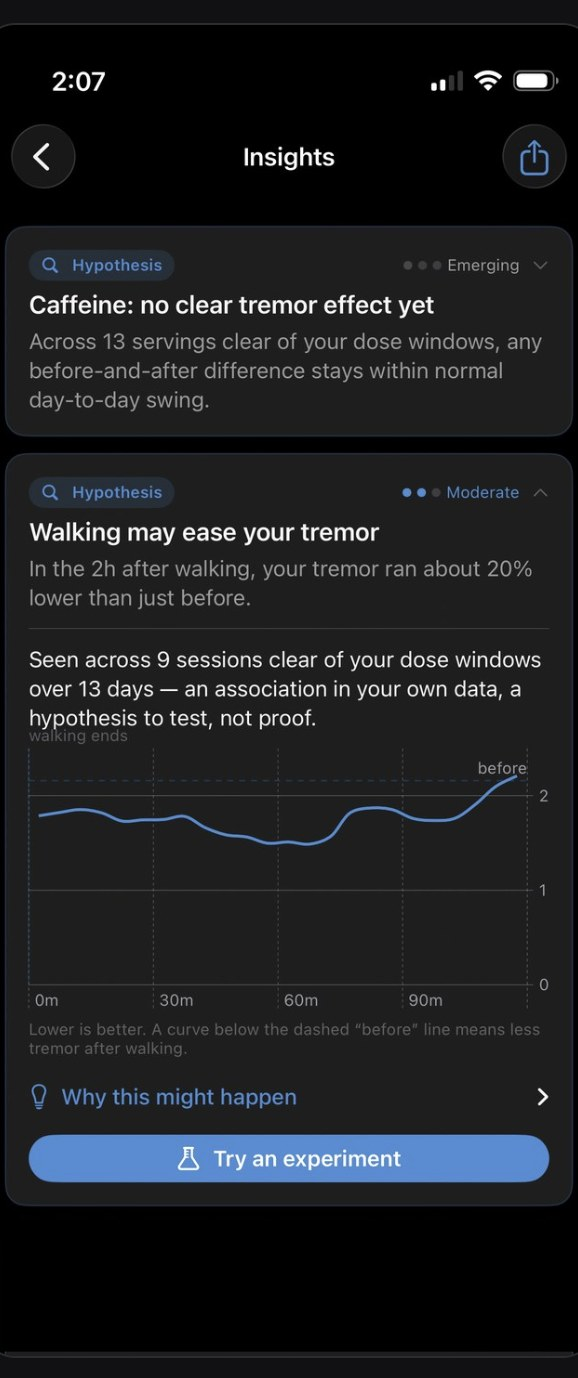
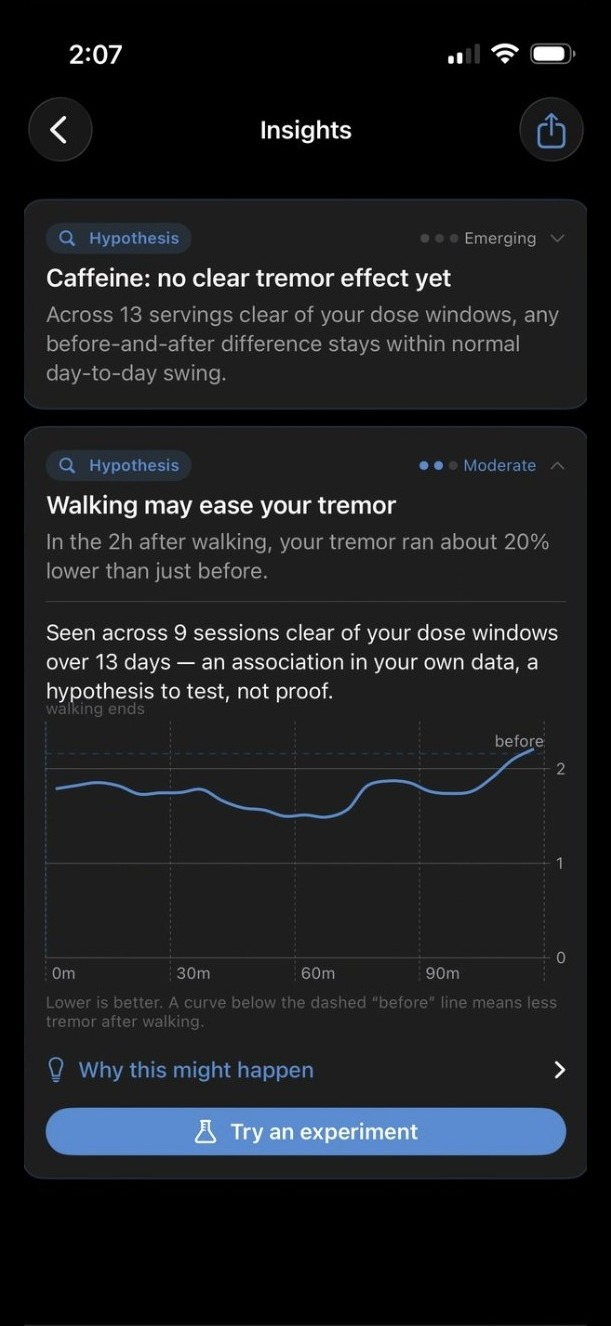
Add FAQ page, CGM showcase, and Insights screenshot polish to site
- New /faq.html (Kampa FAQ, SHIP-GATED entries stripped, no pricing);
  linked from index/privacy/terms footers
- CGM 'Glucose, on the same timeline' showcase section with real-capture
  video (crosshair scrub + panel collapse); 'Jul 2026' changelog entry
- Roadmap: swap shipped CGM item for 'Per-medication response'
- Insights screenshots: wrap in phone bezel, reframe out baked-in frame,
  enlarge, add side gutter (aspect + framing now match the rest of the page)

diff --git a/website/faq.html b/website/faq.html
@@ -1,0 +1,272 @@
+<!DOCTYPE html>
+<html lang="en">
+<head>
+    <meta charset="UTF-8">
+    <meta name="viewport" content="width=device-width, initial-scale=1.0">
+    <title>FAQ — Kampa</title>
+    <meta name="description" content="Answers to common questions about Kampa - setup, the tremor chart, Insights, privacy, glucose, pricing, and how the app works. Not medical advice.">
+    <link rel="preconnect" href="https://fonts.googleapis.com">
+    <link rel="preconnect" href="https://fonts.gstatic.com" crossorigin>
+    <link href="https://fonts.googleapis.com/css2?family=Geist:wght@400;500;600&family=Inter:ital,opsz,wght@0,14..32,300;0,14..32,400;0,14..32,500;0,14..32,600;1,14..32,400&display=swap" rel="stylesheet">
+    <style>
+        *, *::before, *::after { box-sizing: border-box; margin: 0; padding: 0; }
+        :root {
+            --bg: #0a0a0a;
+            --surface-1: #111113;
+            --surface-2: #1c1c1e;
+            --border: #2c2c2e;
+            --blue: #4A8CD6;
+            --blue-dim: rgba(74, 140, 214, 0.12);
+            --blue-border: rgba(74, 140, 214, 0.30);
+            --text-1: #ffffff;
+            --text-2: rgba(235, 235, 245, 0.76);
+            --text-3: rgba(235, 235, 245, 0.36);
+            --font: 'Inter', -apple-system, BlinkMacSystemFont, sans-serif;
+            --font-geist: 'Geist', 'Inter', sans-serif;
+            --max-w: 760px;
+        }
+        html { scroll-behavior: smooth; }
+        body {
+            background: var(--bg);
+            color: var(--text-1);
+            font-family: var(--font);
+            -webkit-font-smoothing: antialiased;
+            line-height: 1.7;
+            font-weight: 300;
+        }
+        nav {
+            position: sticky;
+            top: 0;
+            z-index: 100;
+            display: flex;
+            align-items: center;
+            justify-content: space-between;
+            padding: 16px 32px;
+            background: rgba(10, 10, 10, 0.72);
+            backdrop-filter: blur(24px);
+            -webkit-backdrop-filter: blur(24px);
+            border-bottom: 1px solid rgba(255,255,255,0.05);
+        }
+        .wordmark { display: flex; align-items: center; gap: 9px; text-decoration: none; }
+        .wordmark .name {
+            font-family: var(--font-geist); font-weight: 500; font-size: 18px;
+            letter-spacing: -0.02em; color: #fff;
+        }
+        .wordmark .name .a-blue { color: var(--blue); }
+        .nav-back { color: var(--text-2); text-decoration: none; font-size: 14px; transition: color 0.18s; }
+        .nav-back:hover { color: var(--text-1); }
+        .container { max-width: var(--max-w); margin: 0 auto; padding: 72px 32px 96px; }
+        .eyebrow {
+            font-size: 11.5px; font-weight: 650; letter-spacing: 0.11em;
+            text-transform: uppercase; color: var(--blue); margin-bottom: 14px;
+        }
+        h1 {
+            font-size: clamp(30px, 4vw, 42px); font-weight: 700;
+            letter-spacing: -0.03em; line-height: 1.1; margin-bottom: 12px;
+        }
+        .meta { font-size: 13.5px; color: var(--text-3); margin-bottom: 40px; }
+        .intro {
+            background: var(--surface-1); border: 1px solid var(--border);
+            border-radius: 14px; padding: 24px 26px; margin-bottom: 36px;
+            font-size: 16px; color: var(--text-2); line-height: 1.75;
+        }
+        .toc {
+            display: flex; flex-wrap: wrap; gap: 8px; margin-bottom: 48px;
+        }
+        .toc a {
+            font-size: 13px; color: var(--text-2); text-decoration: none;
+            background: var(--surface-2); border: 1px solid var(--border);
+            border-radius: 999px; padding: 7px 14px; transition: border-color 0.18s, color 0.18s;
+        }
+        .toc a:hover { border-color: var(--blue); color: var(--text-1); }
+        section { scroll-margin-top: 80px; }
+        h2 {
+            font-size: 20px; font-weight: 600; letter-spacing: -0.02em;
+            color: var(--text-1); margin: 48px 0 8px;
+            padding-bottom: 12px; border-bottom: 1px solid var(--border);
+        }
+        h3 { font-size: 15.5px; font-weight: 600; color: var(--text-1); margin: 28px 0 8px; }
+        p { color: var(--text-2); margin-bottom: 14px; font-size: 15.5px; }
+        strong { font-weight: 500; color: var(--text-1); }
+        a { color: var(--blue); text-decoration: none; border-bottom: 1px solid transparent; transition: border-color 0.2s; }
+        a:hover { border-bottom-color: var(--blue); }
+        .callout {
+            background: var(--blue-dim); border: 1px solid var(--blue-border);
+            border-radius: 10px; padding: 16px 20px; margin: 22px 0;
+        }
+        .callout p { margin: 0; color: var(--text-1); font-weight: 400; font-size: 15px; }
+        .contact {
+            margin-top: 56px; padding: 24px 26px; background: var(--surface-1);
+            border: 1px solid var(--border); border-radius: 14px;
+        }
+        .contact h2 { border: none; margin: 0 0 8px; padding: 0; }
+        .contact p { margin: 0; }
+        footer {
+            border-top: 1px solid var(--border); padding: 32px;
+            text-align: center; font-size: 12.5px; color: var(--text-3);
+        }
+        footer a { color: var(--text-2); }
+    </style>
+</head>
+<body>
+
+<nav>
+    <a href="index.html" class="wordmark" aria-label="Kampa home">
+        <svg width="38" height="23" viewBox="0 0 240 144" fill="none" xmlns="http://www.w3.org/2000/svg" style="color:#fff; flex-shrink:0;">
+            <path d="M8 90 C 28 90, 30 30, 56 30 C 78 30, 80 110, 104 95 C 124 82, 126 60, 150 60 C 168 60, 172 78, 192 78 L 232 78" stroke="currentColor" stroke-width="8" stroke-linecap="round" stroke-linejoin="round"/>
+            <circle cx="232" cy="78" r="5" fill="currentColor"/>
+        </svg>
+        <span class="name">k<span class="a-blue">ā</span>mpa</span>
+    </a>
+    <a href="index.html" class="nav-back">← Back to site</a>
+</nav>
+
+<div class="container">
+
+    <p class="eyebrow">Help</p>
+    <h1>Frequently asked questions</h1>
+    <p class="meta">How Kampa works - setup, your data, privacy, and more. Not medical advice.</p>
+
+    <div class="intro">
+        Answers to the questions people ask most about Kampa. If you don't find what you need here, email <a href="mailto:[email redacted]">[email redacted]</a> - it reaches the person who builds the app. For anything medical, talk to your doctor or neurologist.
+    </div>
+
+    <nav class="toc" aria-label="Sections">
+        <a href="#getting-started">Getting started</a>
+        <a href="#your-data">Understanding your data</a>
+        <a href="#privacy">Privacy</a>
+        <a href="#logging">Logging &amp; voice</a>
+        <a href="#glucose">Glucose (CGM)</a>
+        <a href="#cost">Cost</a>
+        <a href="#about">About Kampa</a>
+    </nav>
+
+    <section id="getting-started">
+        <h2>Getting started</h2>
+
+        <h3>What do I need to run Kampa?</h3>
+        <p>An iPhone 11 or newer running iOS 26 or later, and an Apple Watch Series 4 or newer running watchOS 10 or later. The Watch is essential - it is where tremor and dyskinesia are sensed. Kampa works with older Watches like the Series 5 and first-generation SE.</p>
+
+        <h3>I installed Kampa and it says "no data yet." Is something wrong?</h3>
+        <p>No - this is expected. Tremor sensing needs a few days of regular Watch wear before patterns appear. Wear your Watch through your normal days, and Kampa will start showing data as it accumulates. If you see nothing after 3-4 days of wear, check that Kampa has Motion and Health permissions in Settings.</p>
+
+        <h3>Do I need to open the app every day?</h3>
+        <p>No, but open it every few days. Your Watch stores about a week of tremor data and hands it to your iPhone when the app opens. If the app stays closed longer than that, the oldest days can be lost. Kampa will remind you if it has not heard from your Watch in a while - that reminder is the one notification we will always send, because your data matters. We are working toward fully automatic background sync.</p>
+
+        <h3>Which permissions does Kampa ask for, and why?</h3>
+        <p>Health access (to read sleep, exercise, heart data, medications, and to save what you log), Motion access on the Watch (tremor and dyskinesia sensing), and optionally notifications (used only for the handful of things worth interrupting you for - like the Watch losing sync). Kampa asks for nothing it does not use.</p>
+
+        <h3>How do I log my medications?</h3>
+        <p>In the Apple Health app, which is the system of record for medications on iPhone. Log a dose there (or via Siri with Apple's own medication features) and Kampa reads it automatically and places it on your timeline. Kampa deliberately does not keep a separate medication list - one list, no double entry.</p>
+    </section>
+
+    <section id="your-data">
+        <h2>Understanding your data</h2>
+
+        <h3>What does the 0-4 tremor scale mean?</h3>
+        <p>It is a None-to-Strong severity estimate produced automatically from your Apple Watch. The labels echo the severity language clinicians use, but the number is a passive estimate from wrist sensing - not a doctor's exam, and not a clinical score. Use it to compare your own days against each other, not to compare yourself against anyone else.</p>
+
+        <h3>Why does my tremor number look different from another app I use?</h3>
+        <p>Different apps measure different things. Kampa's chart shows tremor intensity - how strong the tremor was, hour by hour. Some other apps report duration - how many minutes of tremor occurred. Both are legitimate lenses; a day can have long mild tremor or brief strong tremor. Neither number is wrong; they answer different questions.</p>
+
+        <h3>What is dyskinesia, and why does mine show zero?</h3>
+        <p>Dyskinesia refers to involuntary movements that can occur as a side effect of levodopa medication, usually at peak dose. Not everyone experiences it - if you don't, a flat line is the correct reading, not a broken feature. Wrist sensing can also register some ordinary movement as possible dyskinesia, so Kampa is deliberately conservative about what it shows.</p>
+
+        <h3>Why do tremor and dyskinesia sometimes look like opposites on the chart?</h3>
+        <p>Because pharmacologically they often are. Tremor tends to peak before a dose (medication worn off) and dyskinesia at peak dose. Seeing them rise and fall in opposite rhythm around your doses is the levodopa cycle made visible - many people find this one chart explains their day better than anything else.</p>
+
+        <h3>What is the difference between Observations and Insights?</h3>
+        <p>Observations describe today: "Tremor eased 68% in the hour after your 8 AM dose." They are honest descriptions of what co-occurred, not proof of cause. Insights are patterns that hold up across many days and pass statistical checks before you ever see them. Observations are the daily read; Insights are the accumulated evidence.</p>
+
+        <h3>What do the confidence labels on Insights mean?</h3>
+        <p>Emerging, moderate, and strong reflect how much evidence supports a pattern - how many days, how large the effect, and how consistently it repeats. Kampa shows the basis plainly ("based on 23 days"). If a pattern stops holding, its card is downgraded or retired. We would rather show you nothing than something that is not real.</p>
+
+        <h3>Why do I have so few Insights? / Why did a card disappear?</h3>
+        <p>Because Kampa applies real statistical standards before claiming anything, and honest standards mean fewer, better cards. Some things genuinely have no effect on your symptoms - learning that is valuable too. Cards appear when evidence clears the bar and retire when it no longer does; the screen reflects the current state of evidence, never a highlight reel.</p>
+
+        <h3>Will Kampa ever tell me to change my medication?</h3>
+        <p>No. Never. Kampa may surface an observation worth discussing - for example, that your afternoon doses seem to act more slowly than your morning ones - and help you prepare a summary for your neurologist. What to do about it is a decision for you and your doctor.</p>
+    </section>
+
+    <section id="privacy">
+        <h2>Privacy and your data</h2>
+
+        <h3>Where does my health data live?</h3>
+        <p>On your iPhone and in your own private iCloud. Kampa has no servers. We cannot see your data - not because of a policy, but because of how the app is built. Nothing is sold, shared, or used for research without your explicit consent.</p>
+
+        <h3>Does Kampa use my data to train AI?</h3>
+        <p>No. Optional AI-powered features (like plain-language explanations) send only derived summary statistics - never your raw health data, never your identity - and only if you opt in. Everything else runs entirely on your device.</p>
+
+        <h3>Can I get my data out?</h3>
+        <p>Yes, always. Kampa exports your data as CSV files you can keep, inspect, or share. It is your data; export is free and always will be.</p>
+
+        <h3>What happens to my data if I stop using Kampa?</h3>
+        <p>It stays in your iCloud and your Apple Health store, under your control. Deleting the app removes Kampa's copies; your Health data remains yours in Apple Health.</p>
+
+        <div class="callout">
+            <p>For the complete details, see the <a href="privacy.html">full privacy policy</a>.</p>
+        </div>
+    </section>
+
+    <section id="logging">
+        <h2>Logging and voice</h2>
+
+        <h3>How does voice logging work?</h3>
+        <p>Say something like "Hey Siri, log coffee with Kampa" or "log a 20 minute meditation." Kampa reads back what it understood and asks you to confirm before saving anything. It was designed for days when typing is hard.</p>
+
+        <h3>Why can't I log a medication dose by voice through Kampa?</h3>
+        <p>Apple allows apps to read medication doses from Apple Health but not to write them. Saying "log my meds" opens Apple Health's own medication screen instead. This is an Apple platform rule, and it exists for a good reason - one trusted list of record for something as important as medication.</p>
+    </section>
+
+    <section id="glucose">
+        <h2>Glucose (CGM)</h2>
+
+        <h3>Kampa shows a glucose panel. Do I need a glucose monitor?</h3>
+        <p>No. Kampa works fully without one. If you choose to wear an over-the-counter continuous glucose sensor (such as Abbott Lingo or Dexcom Stelo - no prescription needed), Kampa can display your glucose curve time-aligned under your tremor chart, with doses and meals marked across both.</p>
+
+        <h3>Why would glucose matter for tremor or medication?</h3>
+        <p>Levodopa is absorbed and reaches the brain through transport systems that food - especially protein and large meals - can compete with. Your glucose curve is an objective record of your body's meal response, which can help make sense of days when a dose seemed slow or weak. Kampa treats this as an area to observe honestly, not a promise.</p>
+
+        <h3>How do I connect my sensor?</h3>
+        <p>Enable Apple Health sharing inside your sensor's own app (for example Lingo). Kampa reads glucose from Apple Health automatically - no separate pairing.</p>
+    </section>
+
+    <section id="cost">
+        <h2>Cost</h2>
+
+        <h3>What does Kampa cost?</h3>
+        <p>Nothing right now - Kampa is free to use. Sensing, charts, daily observations, logging, and data export are all included.</p>
+    </section>
+
+    <section id="about">
+        <h2>About Kampa</h2>
+
+        <h3>Who makes Kampa?</h3>
+        <p>Kampa is built by Bhav Bhasin, a product builder who has spent 25+ years on large-scale technology and now builds independently, working closely with the Parkinson's community. Kampa began as an attempt to answer questions that existing tools would not: not "what happened," but "what actually affects me?"</p>
+
+        <h3>What does "Kampa" mean?</h3>
+        <p>Kampa (कम्प) is Sanskrit for "tremor," from Kampavata - the term ancient Ayurvedic medicine used for what modern medicine calls Parkinson's disease. We chose a name that faces the condition honestly.</p>
+
+        <h3>I have essential tremor, not Parkinson's. Will Kampa work for me?</h3>
+        <p>Parts of it. Kampa's lifestyle logging and correlation tools apply broadly, but the Watch's tremor sensing is tuned by Apple for Parkinson's resting tremor, and some features (like dose-response analysis) are specific to Parkinson's medication. We have not yet validated Kampa for essential tremor, and we won't claim it works until we have.</p>
+
+        <h3>Is Kampa a medical device?</h3>
+        <p>No. Kampa is a personal wellness and symptom-tracking tool. It is not a medical device and does not provide medical advice, diagnosis, or treatment. Always consult a qualified healthcare professional about any medical condition.</p>
+
+        <h3>I found a bug / I have an idea. Where do I send it?</h3>
+        <p><a href="mailto:[email redacted]">[email redacted]</a> - it lands with the person who builds the app, usually within a day or two. Ideas from people living with the condition have shaped most of what Kampa is.</p>
+    </section>
+
+    <div class="contact">
+        <h2>Still have a question?</h2>
+        <p>Email <a href="mailto:[email redacted]">[email redacted]</a> - it reaches the person who builds Kampa, usually within a day or two.</p>
+    </div>
+
+</div>
+
+<footer>
+    © 2026 Kampa Health · <a href="index.html">kampa.health</a> · <a href="privacy.html">Privacy Policy</a> · <a href="terms.html">Terms of Use</a>
+</footer>
+
+</body>
+</html>

diff --git a/website/index.html b/website/index.html
@@ -485,6 +485,7 @@
             align-items: start;
         }
         .insight-shot { display: flex; flex-direction: column; align-items: center; gap: 18px; }
+        .insight-shot .phone { width: 100%; max-width: 320px; }
         .insight-shot img { width: 100%; display: block; }
         .insight-cap { text-align: center; }
         .insight-cap strong { display: block; font-size: 14px; font-weight: 600; color: var(--text-1); margin-bottom: 3px; }
@@ -562,6 +563,24 @@
         .legend-item span { font-size: 17px; }
         .legend-item strong { display: block; font-size: 12.5px; font-weight: 600; }
         .legend-item p { font-size: 11.5px; color: var(--text-3); }
+
+        /* ── Glucose (CGM) lede — mirrors .watch-lede grammar ── */
+        .phone video { width: 100%; display: block; }
+        .cgm-lede {
+            display: grid;
+            grid-template-columns: auto 1fr;
+            gap: 64px;
+            align-items: center;
+        }
+        .cgm-lede .phone { width: 285px; }
+        .cgm-copy h3 { margin-bottom: 14px; }
+        .cgm-copy p { font-size: 16px; color: var(--text-2); line-height: 1.65; max-width: 520px; font-weight: 380; margin-bottom: 16px; }
+        .cgm-copy p:last-child { margin-bottom: 0; }
+        .cgm-copy strong { color: var(--text-1); font-weight: 600; }
+        @media (max-width: 760px) {
+            .cgm-lede { grid-template-columns: 1fr; justify-items: center; text-align: center; gap: 36px; }
+            .cgm-copy p { margin-left: auto; margin-right: auto; }
+        }
 
         /* ── Dual-signal showcase ── */
         .signal-grid {
@@ -1143,6 +1162,22 @@
     </div>
 </div>
 
+<!-- ── Glucose (CGM) ── -->
+<div class="section-wrap">
+    <div class="cgm-lede">
+        <div class="phone-wrap">
+            <div class="phone"><video src="images/cgm-scrub.mp4" poster="images/cgm-scrub-poster.jpg" autoplay loop muted playsinline></video></div>
+            <div class="phone-glow"></div>
+        </div>
+        <div class="cgm-copy">
+            <p class="eyebrow">Glucose</p>
+            <h3 class="section-h">On the same timeline.</h3>
+            <p>Wear an over-the-counter glucose sensor - Abbott Lingo, Dexcom Stelo, no prescription - and Kampa reads it straight from Apple Health, drawing your glucose curve in its own panel, time-aligned right under your tremor chart.</p>
+            <p><strong>Touch and hold anywhere, and a crosshair sweeps every panel at once</strong> - a dose, a meal, a tremor uptick, and a glucose swing all line up to the same minute. Collapse a panel when you want fewer signals in view. Kampa works fully without a sensor, too.</p>
+        </div>
+    </div>
+</div>
+
 <!-- ── Insights (cross-day) ── -->
 <div class="section-wrap" id="insights">
     <p class="eyebrow">Insights</p>
@@ -1150,15 +1185,15 @@
     <p class="section-p">A single day shows what happened. Across weeks and months, the Insights view surfaces the longer patterns - how your medication really performs, when wearing-off tends to hit, how your walking is trending - each with an honest confidence level, and only when the data actually supports it.</p>
     <div class="insight-shots">
         <div class="insight-shot">
-            <img src="images/insight-1.jpg" alt="Kampa Insights list - several findings, each labeled with a confidence level">
+            <div class="phone"><img src="images/insight-1.jpg" alt="Kampa Insights list - several findings, each labeled with a confidence level"></div>
             <div class="insight-cap"><strong>Ranked by confidence</strong><span>Emerging, Moderate, or Strong - never overstated</span></div>
         </div>
         <div class="insight-shot">
-            <img src="images/insight-2.jpg" alt="An insight expanded with a chart and a 'Try an experiment' button">
+            <div class="phone"><img src="images/insight-2.jpg" alt="An insight expanded with a chart and a 'Try an experiment' button"></div>
             <div class="insight-cap"><strong>A hypothesis you can test</strong><span>Framed as an association to test, not proof</span></div>
         </div>
         <div class="insight-shot">
-            <img src="images/insight-3.jpg" alt="Medication dose-response chart comparing morning, pre-lunch and afternoon doses">
+            <div class="phone"><img src="images/insight-3.jpg" alt="Medication dose-response chart comparing morning, pre-lunch and afternoon doses"></div>
             <div class="insight-cap"><strong>Worth a doctor's eye</strong><span>Clear enough to bring to your neurologist</span></div>
         </div>
     </div>
@@ -1241,6 +1276,13 @@
     <h2 class="section-h">Recently shipped.</h2>
     <p class="section-p">What's landed in the app lately. Each release gets a closer look on <a href="https://www.linkedin.com/company/kampa-health/" target="_blank" rel="noopener" style="color:var(--blue);text-decoration:none;">LinkedIn</a>.</p>
     <div class="changelog-list">
+        <div class="changelog-item">
+            <div class="changelog-date">Jul 2026</div>
+            <div>
+                <div class="changelog-title">Glucose, on the same timeline</div>
+                <div class="changelog-desc">Wear an over-the-counter glucose sensor - Abbott Lingo, Dexcom Stelo, no prescription - and Kampa reads it straight from Apple Health and draws your glucose curve in its own panel, time-aligned right under your tremor chart. Touch and hold anywhere and a crosshair sweeps every panel at once, so a dose, a meal, a tremor uptick, and a glucose swing all line up to the same minute. It works fully without a sensor, too.</div>
+            </div>
+        </div>
         <div class="changelog-item">
             <div class="changelog-date">Jun 2026</div>
             <div>
@@ -1334,8 +1376,8 @@
         </div>
         <div class="roadmap-item">
             <div class="roadmap-label">Up next</div>
-            <div class="roadmap-title">Glucose - movement correlation</div>
-            <p class="roadmap-desc">Continuous glucose monitoring read through Apple Health. No PD app currently measures how glucose spikes affect levodopa absorption and tremor - the sensors are in hand and integration is the next signal to land.</p>
+            <div class="roadmap-title">Per-medication response</div>
+            <p class="roadmap-desc">Immediate-release levodopa, extended-release, and Mucuna each act on a different curve. Kampa will read dose-response for each one separately - not pooled together.</p>
         </div>
         <div class="roadmap-item">
             <div class="roadmap-label">Roadmap</div>
@@ -1404,6 +1446,8 @@
         </div>
         <div class="footer-meta">
             <div style="margin-bottom:6px;">
+                <a href="faq.html" style="color:var(--text-2);text-decoration:none;">FAQ</a>
+                <span style="color:var(--text-3);margin:0 4px;">·</span>
                 <a href="privacy.html" style="color:var(--text-2);text-decoration:none;">Privacy</a>
                 <span style="color:var(--text-3);margin:0 4px;">·</span>
                 <a href="terms.html" style="color:var(--text-2);text-decoration:none;">Terms</a>

diff --git a/website/privacy.html b/website/privacy.html
@@ -199,7 +199,7 @@
 </div>
 
 <footer>
-    © 2026 Kampa Health · <a href="index.html">kampa.health</a> · <a href="terms.html">Terms of Use</a>
+    © 2026 Kampa Health · <a href="index.html">kampa.health</a> · <a href="faq.html">FAQ</a> · <a href="terms.html">Terms of Use</a>
 </footer>
 
 </body>

diff --git a/website/terms.html b/website/terms.html
@@ -126,7 +126,7 @@
 </div>
 
 <footer>
-    © 2026 Kampa Health · <a href="index.html">kampa.health</a> · <a href="privacy.html">Privacy Policy</a>
+    © 2026 Kampa Health · <a href="index.html">kampa.health</a> · <a href="faq.html">FAQ</a> · <a href="privacy.html">Privacy Policy</a>
 </footer>
 
 </body>